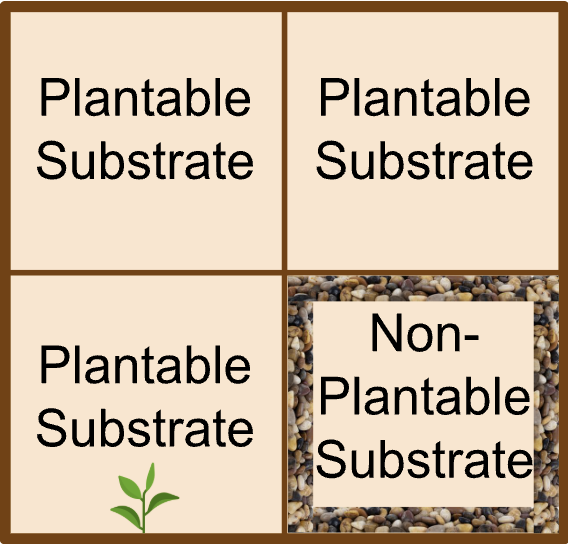
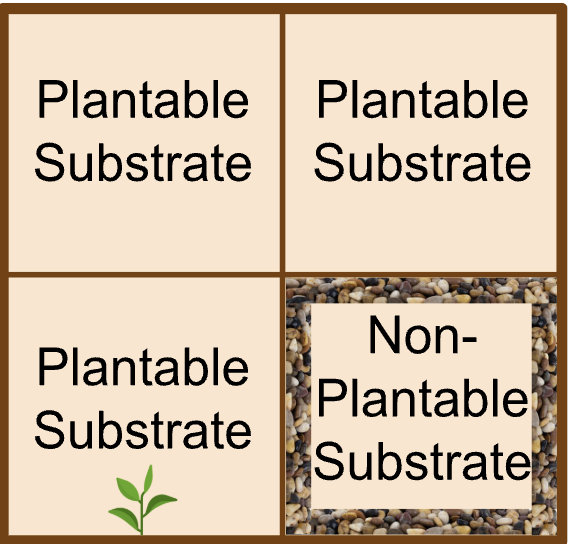
trying new plot 4 image

diff --git a/src/routes/milestone/+page.svelte b/src/routes/milestone/+page.svelte
@@ -49,7 +49,7 @@
                                     seed.innerHTML = `<div>Plot setup: neither plantable</div><img src="/enes100-velma/img/seed_plot_3.png" alt="seed mission diagram" width="125">`;
                                 }
                                 if (plot == 4) {
-                                    seed.innerHTML = `<div>Plot setup: both plantable</div><img src="/enes100-velma/static/img/seed_plot_3.png" alt="seed mission diagram" width="125">`;
+                                    seed.innerHTML = `<div>Plot setup: both plantable</div><img src="/enes100-velma/img/seed_plot_4.png" alt="seed mission diagram" width="125">`;
                                 }
                             }
                             break;
